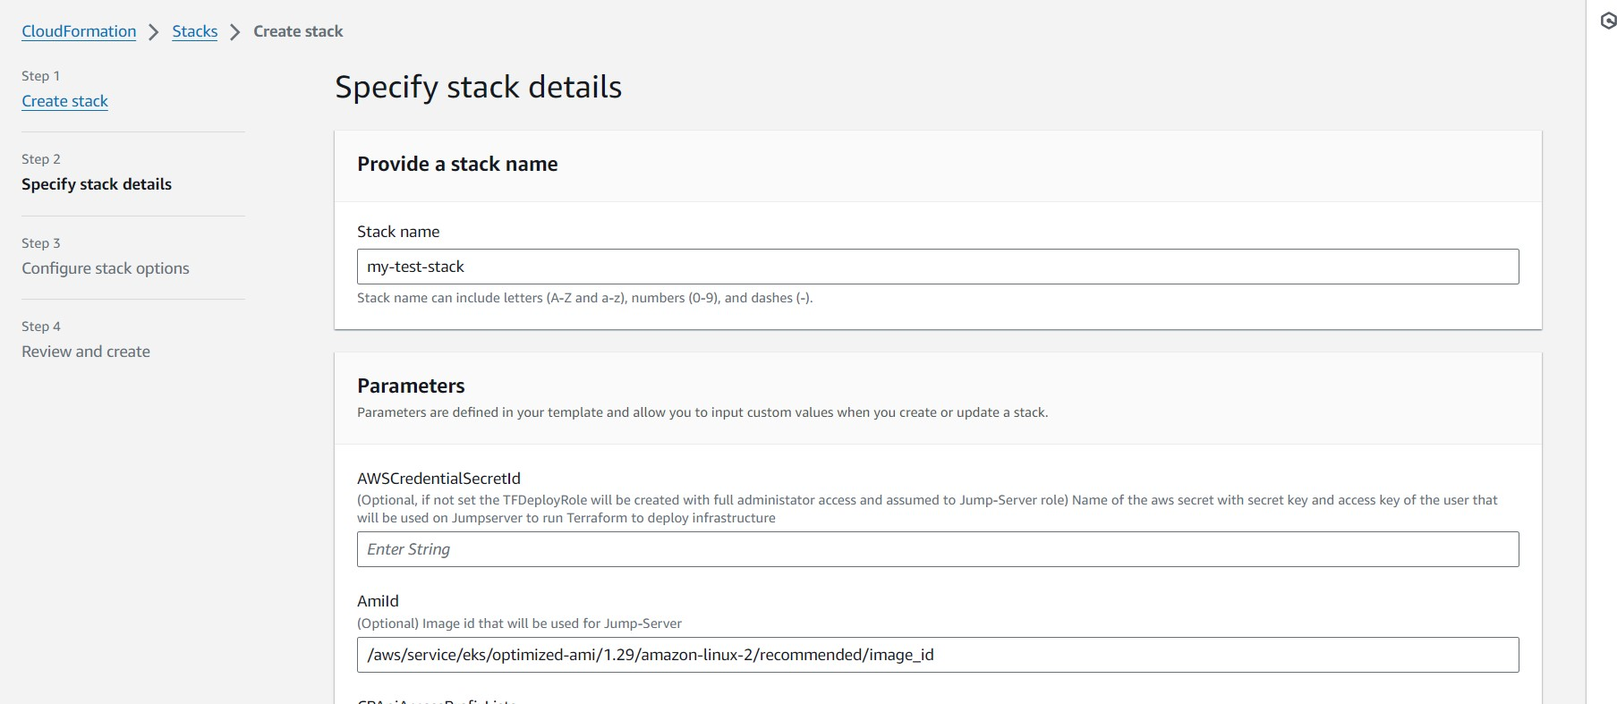
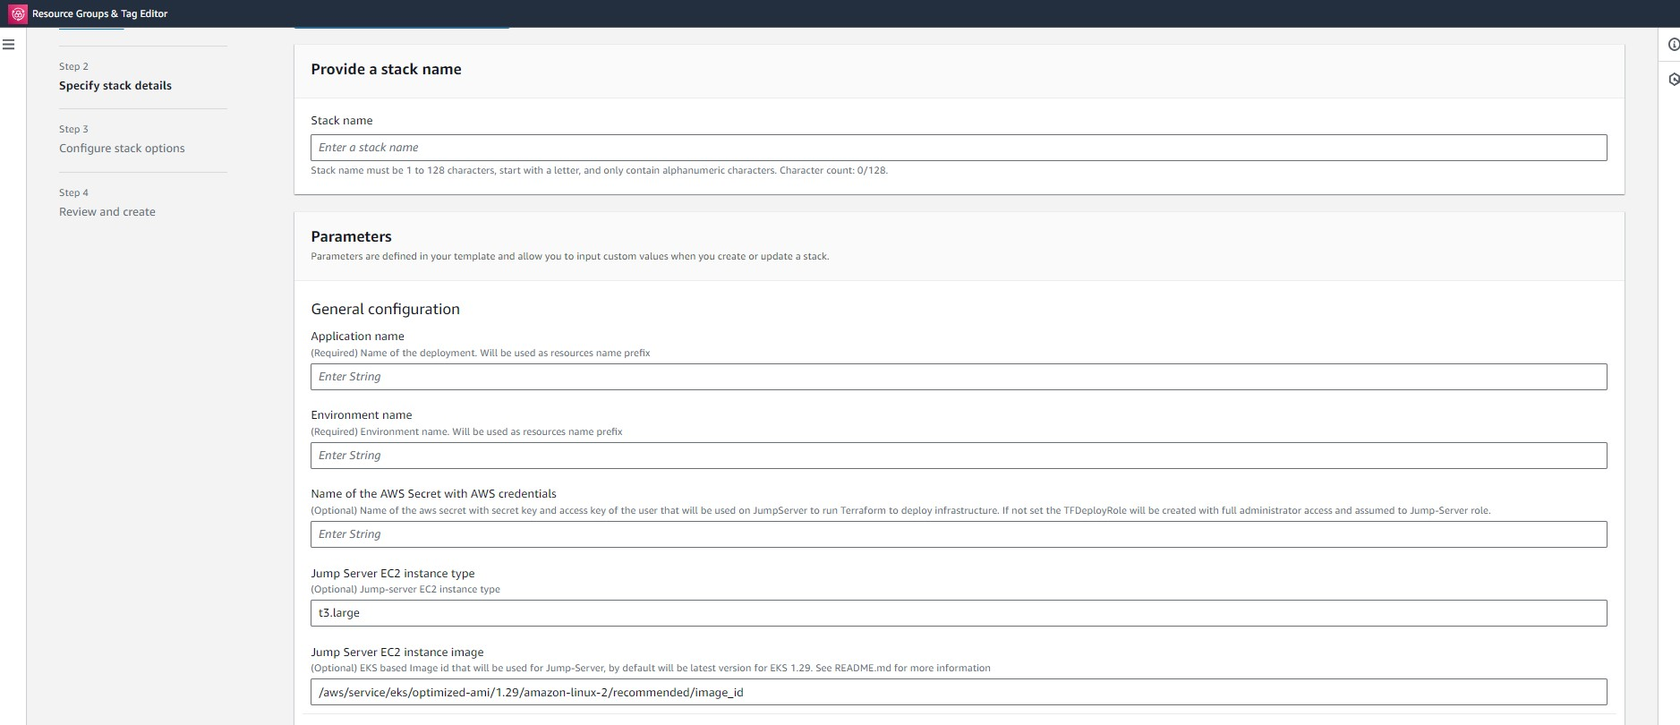
Updated readme after last template changes.

diff --git a/docs/md/installation/deployment/aws/cloud-formation/README.md b/docs/md/installation/deployment/aws/cloud-formation/README.md
@@ -12,14 +12,20 @@ Follow the outlined steps below to execute the deployment process: <br>
   - [Overview](#overview)
     - [Prerequisites](#prerequisites)
       - [AWS VPC](#aws-vpc)
-      - [AWS Elastic IP](#aws-elastic-ip)
+      - [AWS Elastic Load Balancer](#aws-elastic-load-balancer)
       - [Credentials to Create Infrastructure Resources](#credentials-to-create-infrastructure-resources)
       - [Create DNS records](#create-dns-records)
       - [Add authority signed certificates for services](#add-authority-signed-certificates-for-services)
       - [Integrate with an Identity Provider (IdP)](#integrate-with-an-identity-provider-idp)
       - [Create a Zip File with Additional Assets](#create-a-zip-file-with-additional-assets)
+      - [(Optional) Create Prefix List](#optional-create-prefix-list)
     - [Create Cloudformation Stack using template file](#create-cloudformation-stack-using-template-file)
       - [Stack Parameters Description](#stack-parameters-description)
+        - [General configuration](#general-configuration)
+        - [Network Configuration](#network-configuration)
+        - [User application access configuration](#user-application-access-configuration)
+        - [Infrastructure configuration](#infrastructure-configuration)
+        - [Application configuration](#application-configuration)
       - [Deploy Cloud Pipeline using AWS Console](#deploy-cloud-pipeline-using-aws-console)
       - [Deploy Cloud Pipeline using AWS CLI](#deploy-cloud-pipeline-using-aws-cli)
     - [Review Deployment Logs](#review-deployment-logs)
@@ -32,16 +38,27 @@ Before creating the CloudFormation stack, you need to prepare several requiremen
 #### AWS VPC
 
 Virtual Private Cloud (VPC) with desired network configuration should be created in advance.
-The deployment will create all necessary resources for Cloud Pipeline deployment during the next phases:
 
-- CloudFormation stack deployment
-- Terraform deployment
+To create VPC navigate to the VPC service:
+1. Click Create VPC.
+2. Choose the "VPC and more". This gives you more customization options.
+3. Configure your VPC:
+  * Name tag auto-generation: Provide a suitable name for your VPC.
+  * IPv4 CIDR block: Determine the starting IP and the size of your VPC using CIDR notation, for example, 10.0.0.0/16 , 172.32.0.0/16 , etc.
+  * Number of Availability Zones: Select number based on your requirements.
+  * Number of Public Subnets: Select number based on your requirements.
+  * Number of Private Subnets: Select number based on your requirements.
+  * NAT Gateway: For this guide, select "in 1 AZ" or "1 per AZ". A NAT gateway allows instances in a private subnet to access the internet but prevents the internet from initiating a connection with those instances.
+  * VPC Endpoints: Choose variant based on your requirements. The Amazon VPC endpoint for Amazon S3 provides a private connection between your VPC and S3, without involving internet access.
 
-#### AWS Elastic IP
+#### AWS Elastic Load Balancer 
 
-Generate an AWS Elastic IP, which will be used later to deploy an AWS Elastic Load Balancer (ELB) routing users' traffic
-to Cloud-Pipeline services. This EIP should also be used when requesting the creation of DNS records from your DNS
+During the deployment process, an Elastic Load Balancer (ELB) will be created. Before starting the deployment process, you have two main options to select from for your ELB:
+
+Internet-facing: This option requires the creation of an Elastic IP to redirect internet traffic to your targets. This EIP should also be used when requesting the creation of DNS records from your DNS
 provider.
+
+Internal: This option, suited for internal network traffic, requires specifying a reserved private CIDR block, ensuring secure and effective routing within your Virtual Private Cloud (VPC).
 
 #### Credentials to Create Infrastructure Resources
 
@@ -49,7 +66,7 @@ Credentials should be given for this deployment stack to initiate the creation o
 There are two ways to provide such credentials:
 
 1. If you have Administrator role in AWS account or role that Allowed to created resources: EC2 instance, IAM
-   Roles/Policies, EKS cluster, security groups, cloudwatch logs, S3 buckets, EFS/FSX for Luste file systems, KMS keys,
+   Roles/Policies, EKS cluster, security groups, cloudwatch logs, S3 buckets, EFS/FSX for Lustre file systems, KMS keys,
    RDS
    etc. you can use these credentials:
 
@@ -154,6 +171,22 @@ using awc cli) :
 
 > Link format should be as follows: s3://*s3-bucket-name*/cp-assets.zip
 
+#### (Optional) Create Prefix List
+
+A prefix list in AWS is utilized to manage user access during the creation of a security group, simplifying the handling of permissions for multiple IP addresses under one identifier.
+
+Follow these steps to create a Prefix List in AWS:
+1. Open the Amazon VPC console from your AWS Management Console.
+2. In the navigation pane, choose 'Managed Prefix Lists'.
+3. Choose 'Create Prefix List'.
+4. In the 'Prefix list name' field, give your prefix list a unique name.
+5. You can also add an optional description in the 'Description' field.
+6. Specify the maximum number of CIDR blocks the prefix list will contain under 'Max entries'.
+7. Choose between IPv4 and IPv6 for the 'Address family' based on your requirements.
+8. Click 'Add new entry' under 'Prefix list entries' and input the specific CIDR block.
+9. Click 'Create prefix list'.
+With these steps, your new managed prefix list is created and ready to be used to manage access when creating a security group.
+
 ### Create Cloudformation Stack using template file
 
 There are two methods to create a CloudFormation stack that deploys the infrastructure and Cloud-Pipeline services: via
@@ -161,35 +194,54 @@ the AWS console, or the AWS Command Line Interface (CLI).
 
 #### Stack Parameters Description
 
+##### General configuration
+
 | Name                               | Description                                                                                                                                                                                                                                                                                    |
 |------------------------------------|------------------------------------------------------------------------------------------------------------------------------------------------------------------------------------------------------------------------------------------------------------------------------------------------|
-| `DeploymentName`                   | (Required) Name of the deployment. Will be used as resources name prefix                                                                                                                                                                                                                       |
-| `DeploymentEnv`                    | (Required) Environment name. Will be used as resources name prefix                                                                                                                                                                                                                             | 
-| `DeploymentAWSCredentialsSecretId` | (Optional) Name of the aws secret with secret key and access key of the user that will be used on Jumpserver to run Terraform to deploy infrastructure. See [Set access to create infrastructure](#set-access-to-create-infrastructure-resources)                                              | 
-| `JumpServerInstanceType`           | (Optional) Jump-server EC2 instance type                                                                                                                                                                                                                                                       |
-| `JumpServerAmiId`                  | (Optional) Image id that will be used for Jump-Server                                                                                                                                                                                                                                          |
-| `VpcId`                            | (Required) Id of the VPC where all resources will be created. See [Create VPC](#create-vpc)                                                                                                                                                                                                    |
-| `SubnetIds`                        | (Required) Ids of the VCP subnets to be used for Cloud Pipeline EKS cluster, FS mount points, etc. At least one subnet id in list must be specified. See [Create VPC](#create-vpc)                                                                                                             |
-| `EKSVersion` | (Optional) This refers to the version of the installed AWS EKS Cluster. Please note that the current version (1.29) has been tested and verified to work properly with Cloud-Pipeline. Cloud-Pipeline has not been tested with other versions of the EKS cluster and may potentially encounter issues. Users attempting to install them do so at their own risk. |
-| `CPSystemSubnetId`                 | (Required) Subnet where JumpServer instance and EKS node group will be created. See [Create VPC](#create-vpc)                                                                                                                                                                                  |
-| `EKSAdminRoleArns`                 | (Optional) Set additional role ARNs that will be added as administartors in EKS cluster. For example in case when additional deploy role created for Jump Server and need to add additional role as EKS Administrator(By default admin role is that role which deploys EKS cluster)            |
-| `IAMrolePermissionsBoundaryArn`    | (Optional) Account specific role boundaries, that can be used during creating AMI Roles with organization specific restrictions.                                                                                                                                                               |
-| `TFstateBucketName`                | (Required) S3 Bucket name, that will be created where terraform state file for Cloud-Pipeline Infrastructure module will be stored                                                                                                                                                             |
-| `TFStateLockTableName`             | (Required) Name of the DynamoDB table, that will be created, for terraform state lock                                                                                                                                                                                                          |
-| `CPNetworkFileSystemType`          | (Optional) FileSystem type that will be created. Can be efs or fsx. Default efs.                                                                                                                                                                                                               |
-| `CPApiAccessPrefixLists`           | (Optional) Prefix Lists to which access to Cloud Pipeline API will be granted                                                                                                                                                                                                                  |
-| `CPExternalAccessSecurityGroupIds` | (Optional) List of one or more AWS Security Groups that will be used for access to Cloud Pipeline services.                                                                                                                                                                                    |
-| `CPDeploymentId`                   | (Optional) Specify unique ID of the deployment. It will be used to name cloud entities (e.g. path within a docker registry object container). Must contain only letters, digits, underscore or horizontal bar.                                                                                 |
-| `CPEdgeAwsELBSubnet`               | (Required) The ID of the public subnet for the Load Balancer. Must be in the same Availability Zone (AZ) as the `CPInfraSubnetIdNode`.                                                                                                                                                         |
-| `CPEdgeAwsELBIP`                   | (Required) Allocation ID of the Elastic IP from prerequisites in case of internet-facing ELB, or private IP in case of internal ELB. See [Create AWS Elastic IP](#create-aws-elastic-ip)                                                                                                       |
-| `CPEdgeAwsELBSchema`               | (Required) Type of the AWS ELB to provide access to the users to the system. Possible values 'internal', 'internet-facing'. Default 'internet-facing'.                                                                                                                                         |
-| `CPApiSrvHost`                     | (Required) API service domain name address. See [Create DNS](#create-dns-records)                                                                                                                                                                                                              |
-| `CPIdpHost`                        | (Optional) Self hosted IDP service domain name address. WARNING: Using self hosted IDP service in production environment strongly not recommended! If not provided CPAssetsS3Url parameter should be provided with all necessary artifacts to configure SSO authentication for Cloud-Pipeline. |
-| `CPDockerHost`                     | (Required) Docker service domain name address. See [Create DNS](#create-dns-records)                                                                                                                                                                                                           |
-| `CPEdgeHost`                       | (Required) EDGE service domain name address. See [Create DNS](#create-dns-records)                                                                                                                                                                                                             |
-| `CPGitlabHost`                     | (Required) GITLAB service domain name address. See [Create DNS](#create-dns-records)                                                                                                                                                                                                           |
-| `CPAssetsS3Url`                    | (Optional) Link to zip archive with additional assets(certificates) on AWS S3 bucket. For example s3://< bucket-name >/< filename.zip > See [Creating zip with additional assets](#optional-creating-zip-with-additional-assets)                                                               |
-| `CPPipectlUrl`                     | (Required) Link to the pipectl binary file that will be used to deploy Cloud Pipeline                                                                                                                                                                                                          |
+| `Application name`                   | (Required) Name of the deployment. Will be used as resources name prefix                                                                                                                                                                                                                       |
+| `Environment name`                    | (Required) Environment name. Will be used as resources name prefix                                                                                                                                                                                                                             | 
+|  `Name of the AWS Secret with AWS credentials` |  (Optional) Name of the aws secret with secret key and access key of the user that will be used on JumpServer to run Terraform to deploy infrastructure.If not set the TFDeployRole will be created with full administrator access and assumed to Jump-Server role. |   
+|  `Jump Server EC2 instance type` |  (Optional) Jump-server EC2 instance type. By default, instance type of the Jump server is t3.large |  
+|   `Jump Server EC2 instance image` |  (Optional) EKS based Image id that will be used for Jump-Server, by default will be the latest version for EKS 1.29. If version of the EKS version other than 1.29 it is important to use AMI same version as EKS cluster. Use the following command to view the name of the latest Amazon EKS optimized AMI for Amazon Linux 2: aws ssm get-parameters --names /aws/service/eks/optimized-ami/<eks version number>/amazon-linux-2/recommended. For more information read official documentation https://docs.aws.amazon.com/systems-manager/latest/userguide/parameter-store-public-parameters-eks.html  |
+
+
+##### Network Configuration
+| Name                               | Description                                                                                                                                                                                                                                                                                    |
+|------------------------------------|------------------------------------------------------------------------------------------------------------------------------------------------------------------------------------------------------------------------------------------------------------------------------------------------|
+| `ID of the deployment VPC`                   | (Required) Id of the VPC where all resources will be created                                                                      |
+| `Application network schema`                    | (Required) Type of the AWS ELB to provide access to the users to the system. Possible values 'internal', 'internet-facing'. Default 'internet-facing'. | 
+| `Elastic IP/Private IP or the ELB` |  (Required) Allocation ID of the Elastic IP from prerequisites in case of internet-facing ELB, or private IP in case of internal ELB. |   
+| `ID of the ELB subnet` |  (Optional) (Required) The ID of the public subnet for the Load Balancer to be created. Must be in the same Availability Zone (AZ) as the CPSystemSubnetId |  
+| `Application subnet ID` |  (Required) Subnet where JumpServer instance and Cloud-Pipeline system EKS node group (where Cloud-Pipeline internal components will be deployed) will be created   |
+| `Private application subnet IDs` |  (Required) Ids of the VCP subnets to be used for Cloud Pipeline EKS cluster, FS mount points, etc. At least one subnet id in list must be specified  |
+
+##### User application access configuration
+| Name                               | Description                                                                                                                                                                                                                                                                                    |
+|------------------------------------|------------------------------------------------------------------------------------------------------------------------------------------------------------------------------------------------------------------------------------------------------------------------------------------------|
+| `AWS Prefix List ID`                   | (Optional) The ID of the AWS Prefix List that will be used during the creation of the security group to grant users access to the Cloud Pipeline. |
+| `List of AWS Security Groups IDs`                    | (Optional) List of one or more AWS Security Groups that will be used for access to Cloud Pipeline services. | 
+
+
+##### Infrastructure configuration
+| Name                               | Description                                                                                                                                                                                                                                                                                    |
+|------------------------------------|------------------------------------------------------------------------------------------------------------------------------------------------------------------------------------------------------------------------------------------------------------------------------------------------|
+| `Version of the EKS cluster`                   | (Optional) This refers to the version of the installed AWS EKS Cluster.Please note that the current version (1.29) has been tested and verified to work properly with Cloud-Pipeline. Cloud-Pipeline has not been tested with other versions of the EKS cluster and may potentially encounter issues. Users attempting to install them do so at their own risk.|
+| `List of EKS admin IAM roles`    | (Optional) Set of roles ARNs which will get admin access in EKS cluster.Could be useful if DeploymentAWSCredentialsSecretId is not provided. Then here user can provide ARN of his role to get access to the cluster. | 
+| `List of EKS admin IAM users` |  (Optional) Set of IAM user ARNs which will get admin access in EKS cluster. |   
+| `IAM Role permissions boundary ARN` |  (Optional) Account specific role boundaries, this value will be used for all created IAM Roles. |  
+
+##### Application configuration
+| Name                               | Description                                                                                                                                                                                                                                                                                    |
+|------------------------------------|------------------------------------------------------------------------------------------------------------------------------------------------------------------------------------------------------------------------------------------------------------------------------------------------|
+| `Application host domain name`                   | (Required) API service domain name address. See [Create DNS](#create-dns-records) |
+| `Edge service domain name`                        | (Required) EDGE service domain name address. See [Create DNS](#create-dns-records)  |
+| `Internal Docker registry domain name`             | (Required) Internal Docker registry domain name address. See [Create DNS](#create-dns-records)                                                                                                                                                                                                           |
+| `Internal GitLab platform domain name`                       | (Required) Internal GITLAB platform domain name address. See [Create DNS](#create-dns-records)    |
+| `Internal IdP service domain name`      | (Optional) Self hosted IDP service domain name address. WARNING: Using self hosted IDP service in production environment strongly not recommended! If not provided CPAssetsS3Url parameter should be provided with all necessary artifacts to configure SSO authentication for Cloud-Pipeline.  See [Create DNS](#create-dns-records) |
+| `Link to S3 bucket with certificates for IdP`   | (Optional) Link to zip archive with additional assets(certificates) on AWS S3 bucket. For example s3://< bucket-name >/< filename.zip > See [Creating zip with additional assets](#optional-creating-zip-with-additional-assets)                                                               |
+| `Link to pipectl binnary`                     | (Required) URL for the binary file located in a remote S3 bucket. This file will be downloaded during deployment to install the Cloud Pipeline on the target environment. |
+| `Cloud Pipeline Default Admin name`                   | (Optional) Default administrator of the Cloud-Pipeline |
+| `NFS type`                        | (Optional) Network FileSystem type that will be created. Can be efs or fsx. Default efs  |
 
 #### Deploy Cloud Pipeline using AWS Console
 
@@ -315,6 +367,34 @@ Monitor the Stack creation in the AWS Console or by running the provided AWS CLI
 ```
 aws cloudformation describe-stacks --stack-name <stack-name> --query "Stacks[].{\"1.Name\":StackName,\"2.Status\":StackStatus,\"3.Output\":Outputs}" --region <region-d>
 ```
+| Name                               | Description                                                                                                                                                                                                                                                                                    |
+|------------------------------------|------------------------------------------------------------------------------------------------------------------------------------------------------------------------------------------------------------------------------------------------------------------------------------------------|
+| `DeploymentName`                   | (Required) Name of the deployment. Will be used as resources name prefix |
+| `DeploymentEnv`                    | (Required) Environment name. Will be used as resources name prefix  | 
+| `DeploymentAWSCredentialsSecretId` | (Optional) Name of the aws secret with secret key and access key of the user that will be used on Jumpserver to run Terraform to deploy infrastructure. See [Set access to create infrastructure](#set-access-to-create-infrastructure-resources)                                              | 
+| `JumpServerInstanceType`           | (Optional) Jump-server EC2 instance type                                                                                                                                                                                                                                                       |
+| `JumpServerAmiId`                  | (Optional) EKS based Image id that will be used for Jump-Server, by default will be the latest version for EKS 1.29. If version of the EKS version other then 1.29 it is important to use AMI same version as EKS cluster. Use the following command to view the name of the latest Amazon EKS optimized AMI for Amazon Linux 2: aws ssm get-parameters --names /aws/service/eks/optimized-ami/<eks version number>/amazon-linux-2/recommended. For more information read official documentation https://docs.aws.amazon.com/systems-manager/latest/userguide/parameter-store-public-parameters-eks.html   |
+| `VpcId`                            | (Required) Id of the VPC where all resources will be created. See [Create VPC](#create-vpc)                                                                                                                                                                                                    |
+| `SubnetIds`                        | (Required) Ids of the VCP subnets to be used for Cloud Pipeline EKS cluster, FS mount points, etc. At least one subnet id in list must be specified. See [Create VPC](#create-vpc)                                                                                                             |
+| `EKSVersion` | (Optional) This refers to the version of the installed AWS EKS Cluster. Please note that the current version (1.29) has been tested and verified to work properly with Cloud-Pipeline. Cloud-Pipeline has not been tested with other versions of the EKS cluster and may potentially encounter issues. Users attempting to install them do so at their own risk. |
+| `CPSystemSubnetId`                 | (Required) Subnet where JumpServer instance and EKS node group will be created. See [Create VPC](#create-vpc)                                                                                                                                                                                  |
+| `EKSAdminRoleArns`                 | (Optional) Set additional role ARNs that will be added as administartors in EKS cluster. For example in case when additional deploy role created for Jump Server and need to add additional role as EKS Administrator(By default admin role is that role which deploys EKS cluster)            |
+| `IAMrolePermissionsBoundaryArn`    | (Optional) Account specific role boundaries, that can be used during creating AMI Roles with organization specific restrictions.                                                                                                                                                               |
+| `CPNetworkFileSystemType`          | (Optional) FileSystem type that will be created. Can be efs or fsx. Default efs.                                                                                                                                                                                                               |
+| `CPApiAccessPrefixLists`           | (Optional) Prefix Lists to which access to Cloud Pipeline API will be granted                                                                                                                                                                                                                  |
+| `CPExternalAccessSecurityGroupIds` | (Optional) List of one or more AWS Security Groups that will be used for access to Cloud Pipeline services.                                                                                                                                                                                    |
+| `CPDeploymentId`                   | (Optional) Specify unique ID of the deployment. It will be used to name cloud entities (e.g. path within a docker registry object container). Must contain only letters, digits, underscore or horizontal bar.                                                                                 |
+| `CPEdgeAwsELBSubnet`               | (Required) The ID of the public subnet for the Load Balancer. Must be in the same Availability Zone (AZ) as the `CPInfraSubnetIdNode`.   |
+| `CPEdgeAwsELBIP`                   | (Required) Allocation ID of the Elastic IP from prerequisites in case of internet-facing ELB, or private IP in case of internal ELB. See [Create AWS Elastic IP](#create-aws-elastic-ip)                                                                                                       |
+| `CPEdgeAwsELBSchema`               | (Required) Type of the AWS ELB to provide access to the users to the system. Possible values 'internal', 'internet-facing'. Default 'internet-facing'.                                                                                                                                         |
+| `CPApiSrvHost`                     | (Required) API service domain name address. See [Create DNS](#create-dns-records)                                                                                                                                                                                                              |
+| `CPIdpHost`                        | (Optional) Self hosted IDP service domain name address. WARNING: Using self hosted IDP service in production environment strongly not recommended! If not provided CPAssetsS3Url parameter should be provided with all necessary artifacts to configure SSO authentication for Cloud-Pipeline. |
+| `CPDockerHost`                     | (Required) Internal Docker service domain name address. See [Create DNS](#create-dns-records)                                                                                                                                                                                                           |
+| `CPEdgeHost`                       | (Required) EDGE service domain name address. See [Create DNS](#create-dns-records)                                                                                                                                                                                                             |
+| `CPGitlabHost`                     | (Required) Internal GITLAB service domain name address. See [Create DNS](#create-dns-records)                                                                                                                                                                                                           |
+| `CPAssetsS3Url`                    | (Optional) Link to zip archive with additional assets(certificates) on AWS S3 bucket. For example s3://< bucket-name >/< filename.zip > See [Creating zip with additional assets](#optional-creating-zip-with-additional-assets)                                                               |
+| `CPPipectlUrl`                     | (Required) URL for the binary file located in a remote S3 bucket. This file will be downloaded during deployment to install the Cloud Pipeline on the target environment. |
+| `CPDefaultAdmin`                     | (Optional) Default administrator of the Cloud-Pipeline |
 
 ### Review Deployment Logs
 
@@ -347,7 +427,7 @@ To review the deployment process logs, follow these steps:
 
 6. Once the installation is finished, the log will display "Installation done" along with some links.
 
-Wait approximately 40-50 minutes until all resources and services are deployed. Then, verify the deployment by visiting
+Wait approximately 40-90 minutes until all resources and services are deployed. Then, verify the deployment by visiting
 https://<service\>.<user-domain-name\>/
 
 ### Destroy Cloud-Pipeline resources
